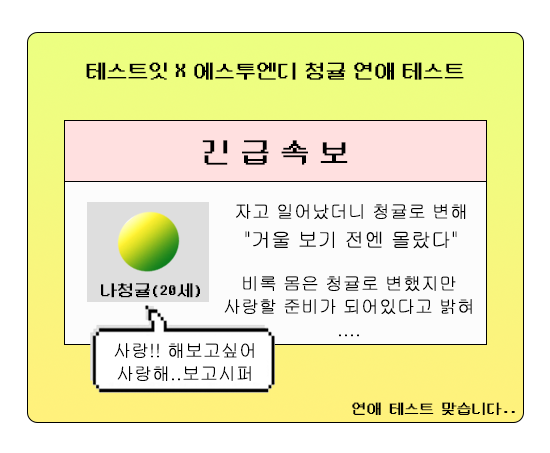
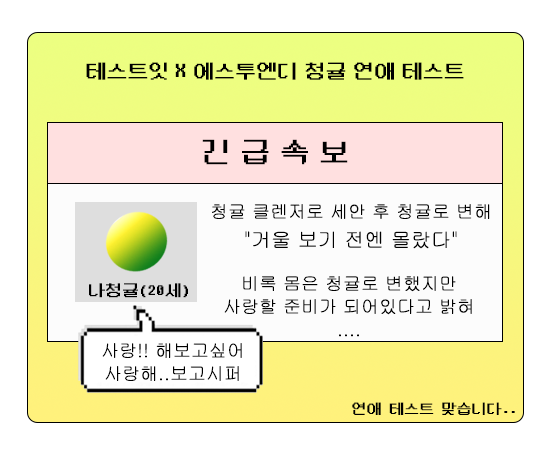
first commit

diff --git a/test800.html b/test800.html
@@ -309,7 +309,7 @@ article{
         // 문제 번호별 질문을 저장하는 자바스크립트 객체 q
                        var q = {
               1: {"title": "<img class='question-image' src='banner800.jpg'></a><br><br><br>신입생 환영회에 참석한 나<br><br>친구들과 아직 친해지지 못했는데<br><br>곧 통금시간이 다가온다", "type": "JP", "A": "어떻게 빠져 그냥 이 순간을 즐겨~", "B": "그래도 통금인데 들어가야지!"},
-             2: {"title": "<img class='question-image' src='banner800.jpg'></a><br><br><br>결국 어제 만취를 한 나...<br><br>비몽사몽한 상태로 거울을 보는데<br><br>거울 속엔 청귤로 변해버린 내가 있었다", "type": "SN", "A": "갑자기 청귤이요?<br>창피해서 학교는 어떻게 감?", "B": "평생 내 모습으로 못 돌아가면 어쩌지?<br>이대로 죽는 거야?"},
+             2: {"title": "<img class='question-image' src='banner800.jpg'></a><br><br><br>결국 어제 만취를 한 나...<br><br>청귤 클렌저로 세안하고 잠들었는데<br><br>일어나 보니 내 모습이 청귤로 변해있었다", "type": "SN", "A": "갑자기 청귤이요?<br>창피해서 학교는 어떻게 감?", "B": "평생 내 모습으로 못 돌아가면 어쩌지?<br>이대로 죽는 거야?"},
              3: {"title": "<img class='question-image' src='banner800.jpg'></a><br><br><br>결국 청귤인 상태로 학교에 간 나<br><br>다들 비웃으며 놀리는데<br><br>딱 한 사람만 말리며 날 보호해 준다", "type": "TF", "A": "개 큰 감동.. 사랑에 빠져버림", "B": "별 타격은 없었지만 고맙네"},
 
              4: {"title": "<img class='question-image' src='banner800.jpg'></a><br><br><br>그 애는 보면 볼수록 내 스타일이었다<br><br>밖에서 따로 만나고 싶은데..", "type": "EI", "A": "적극적으로 다가가자!", "B": "먼저 다가와 주길 기다리는 중"},
